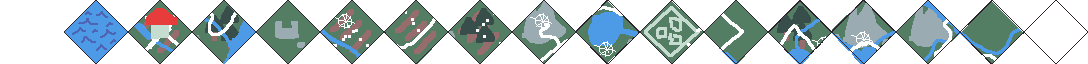
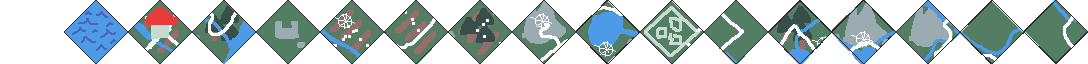
v0.4.277

Changed region(s): [[0.9375, 0.0312, 1.0, 0.9688]]

diff --git a/bleed-server/bin/engine.dart b/bleed-server/bin/engine.dart
@@ -12,6 +12,7 @@ import 'dark_age/areas/area-mountains-1.dart';
 import 'dark_age/areas/area-mountains-2.dart';
 import 'dark_age/areas/area-plains-1.dart';
 import 'dark_age/areas/area-plains-2.dart';
+import 'dark_age/areas/area-plains-3.dart';
 import 'dark_age/areas/area-town.dart';
 import 'dark_age/areas/area_lake.dart';
 import 'dark_age/areas/area_tavern_cellar.dart';
@@ -59,6 +60,7 @@ class Engine {
       AreaFarmA(),
       AreaLake(),
       AreaPlains1(),
+      AreaPlains3(),
     ];
     final mapRow3 = <DarkAgeArea>[
       AreaForestB(),

diff --git a/bleed-server/bin/dark_age/dark_age_scenes.dart b/bleed-server/bin/dark_age/dark_age_scenes.dart
@@ -21,6 +21,7 @@ class DarkAgeScenes {
   late Scene town;
   late Scene plains_1;
   late Scene plains_2;
+  late Scene plains_3;
   late Scene forestB;
   late Scene mountains_1;
   late Scene mountains_2;
@@ -43,6 +44,7 @@ class DarkAgeScenes {
       town = await loadScene('town');
       plains_1 = await loadScene('plains-1');
       plains_2 = await loadScene('plains-2');
+      plains_3 = await loadScene('plains-3');
       mountains_1 = await loadScene('mountains-1');
       mountains_2 = await loadScene('mountains-2');
       empty = Scene(

diff --git a/gamestream_flutter/lib/isometric/ui/dialogs/build_game_dialog_map.dart b/gamestream_flutter/lib/isometric/ui/dialogs/build_game_dialog_map.dart
@@ -80,6 +80,7 @@ final mapTiles = <MapTile> [
    MapTile(0, 1, MapTiles.FarmA),
    MapTile(0, 2, MapTiles.Lake),
    MapTile(0, 3, MapTiles.Plains_1),
+   MapTile(0, 4, MapTiles.Plains_3),
    MapTile(1, -2, MapTiles.Water),
    MapTile(1, -1, MapTiles.ForestB),
    MapTile(1, 0, MapTiles.Forest),

diff --git a/bleed-server/bin/dark_age/areas/area-plains-3.dart b/bleed-server/bin/dark_age/areas/area-plains-3.dart
@@ -1,0 +1,8 @@
+
+import '../../common/map_tiles.dart';
+import '../dark_age_scenes.dart';
+import 'dark_age_area.dart';
+
+class AreaPlains3 extends DarkAgeArea {
+  AreaPlains3() : super(darkAgeScenes.plains_3, mapTile: MapTiles.Plains_3);
+}

diff --git a/bleed-common/lib/map_tiles.dart b/bleed-common/lib/map_tiles.dart
@@ -15,4 +15,5 @@ class MapTiles {
   static const Mountains_1 = 13;
   static const Mountains_2 = 14;
   static const Plains_2 = 15;
+  static const Plains_3 = 16;
 }

diff --git a/bleed-server/bin/common/map_tiles.dart b/bleed-server/bin/common/map_tiles.dart
@@ -15,4 +15,5 @@ class MapTiles {
   static const Mountains_1 = 13;
   static const Mountains_2 = 14;
   static const Plains_2 = 15;
+  static const Plains_3 = 16;
 }

diff --git a/bleed-common/lib/version.dart b/bleed-common/lib/version.dart
@@ -1,4 +1,4 @@
-const version = 'v0.4.276';
+const version = 'v0.4.277';
 
 
 

diff --git a/bleed-server/bin/common/version.dart b/bleed-server/bin/common/version.dart
@@ -1,4 +1,4 @@
-const version = 'v0.4.276';
+const version = 'v0.4.277';
 
 
 
